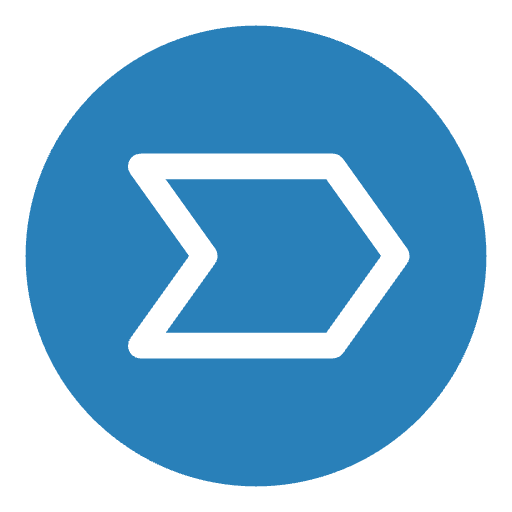
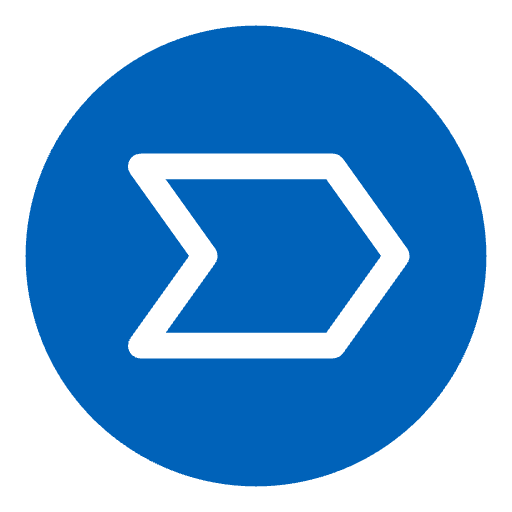
bugs resolved

diff --git a/css/styles.css b/css/styles.css
@@ -816,9 +816,6 @@ textarea {
   justify-content: space-between;
   padding: 8rem 0;
 }
-.main-footer__icon {
-  filter: invert(1) grayscale(100%) brightness(0);
-}
 @media only screen and (max-width: 56.25em) {
   .main-footer__upper {
     padding: 6rem 0;
@@ -985,13 +982,13 @@ textarea {
 
 
 .experience__row-skill {
-  background-color: #3498db;  /* Primary Blue */
+  background-color: #0062b9;  /* Primary Blue */
   color: white;
   padding: 8px 16px;
   border-radius: 25px;  /* Rounded corners */
   font-size: 1.3rem;
   font-weight: 500;
-  border: 1px solid #2980b9;
+  border: 1px solid #0062b9;
   cursor: pointer;
   text-transform: capitalize;
   transition: background-color 0.3s ease-in-out, transform 0.3s ease-in-out;
@@ -999,7 +996,7 @@ textarea {
 
 .experience__row-skill:hover {
   background-color: #fafafa;
-  color: #2980b9;  /* Darker Blue */
+  color: #0062b9;  /* Darker Blue */
   transform: translateY(-3px);  /* Slight lift effect */
 }
 
@@ -1089,7 +1086,7 @@ textarea {
 }
 
 .achievements-list li > .achievement-header strong {
-  color: #2980b9;
+  color: #0062b9;
   font-weight: 600;
   font-size: 2rem;
   margin-left: 10px;
@@ -1111,7 +1108,7 @@ textarea {
 .achievements-list li:hover {
   transform: translateY(-10px);
   cursor: pointer;
-  border: 1px solid #2980b9;
+  border: 1px solid #0062b9;
   box-shadow: 0 4px 10px rgba(0, 0, 0, 0.1);
 }
 

diff --git a/index.html b/index.html
@@ -4,9 +4,9 @@
     <meta charset="UTF-8" />
     <meta name="viewport" content="width=device-width, initial-scale=1.0" />
     <meta http-equiv="X-UA-Compatible" content="ie=edge" />
-    <title>Ankush Yamkar | Full-Stack Developer</title>
+    <title>Ankush Yamkar | Portfolio</title>
     <meta name="description" content="Portfolio Template for Developer" />
-    <link rel="icon" href="./assets/favicons/favicon.ico" type="image/*" />
+    <link rel="icon" href="./assets/favicons/logo_ay.ico" type="image/*" />
 
     <link
       rel="icon"
@@ -625,7 +625,7 @@
 
         <div class="main-footer__lower">
           &copy; Copyright 2024. Made by
-          <a rel="noreferrer" target="_blank" href="">Ankush Yamkar</a>
+          <a rel="noreferrer" target="_blank" href="#">Ankush Yamkar</a>
         </div>
       </div>
     </footer>
